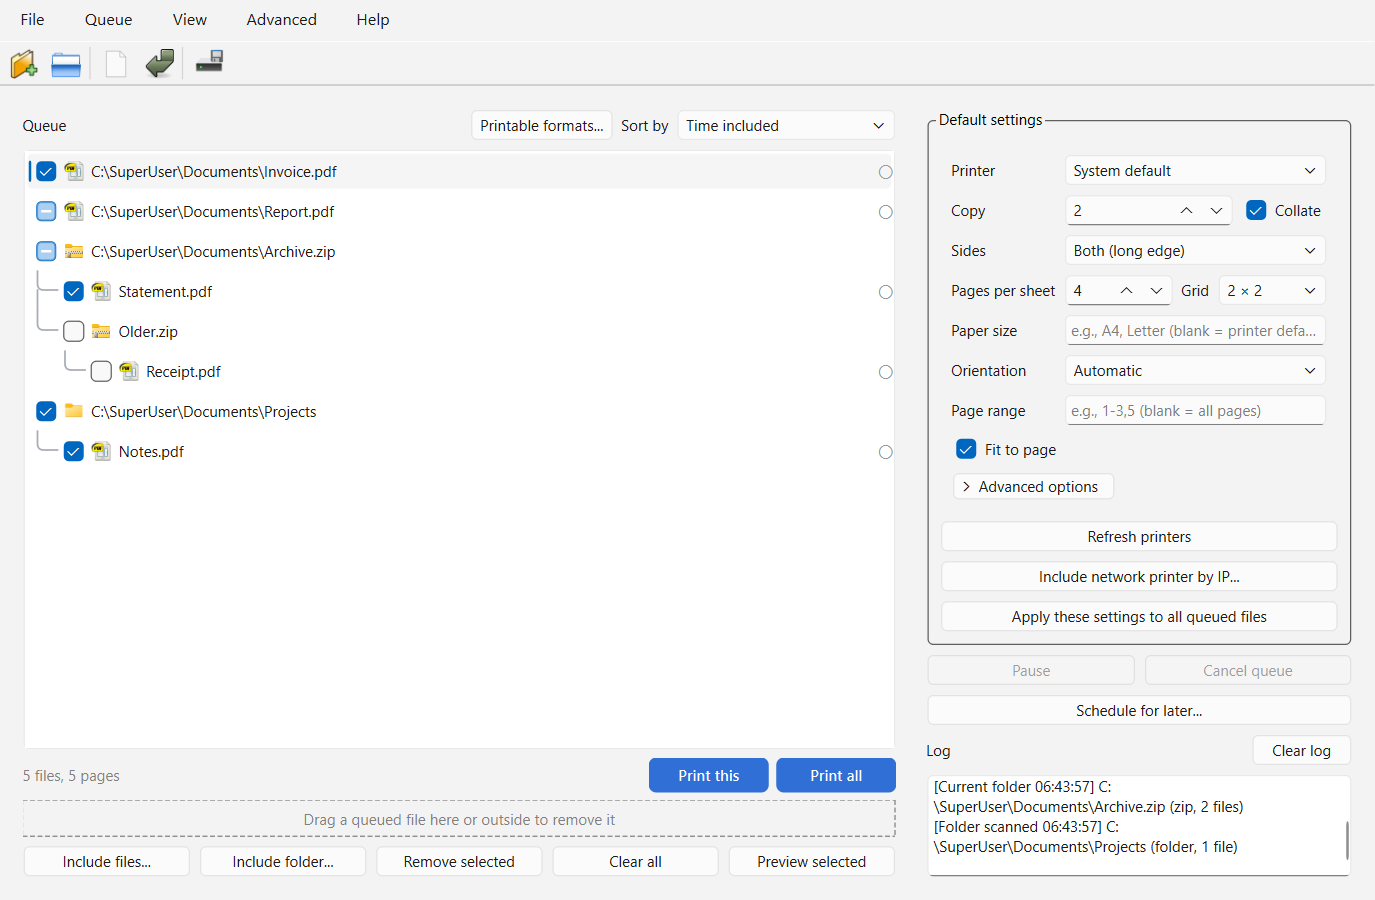
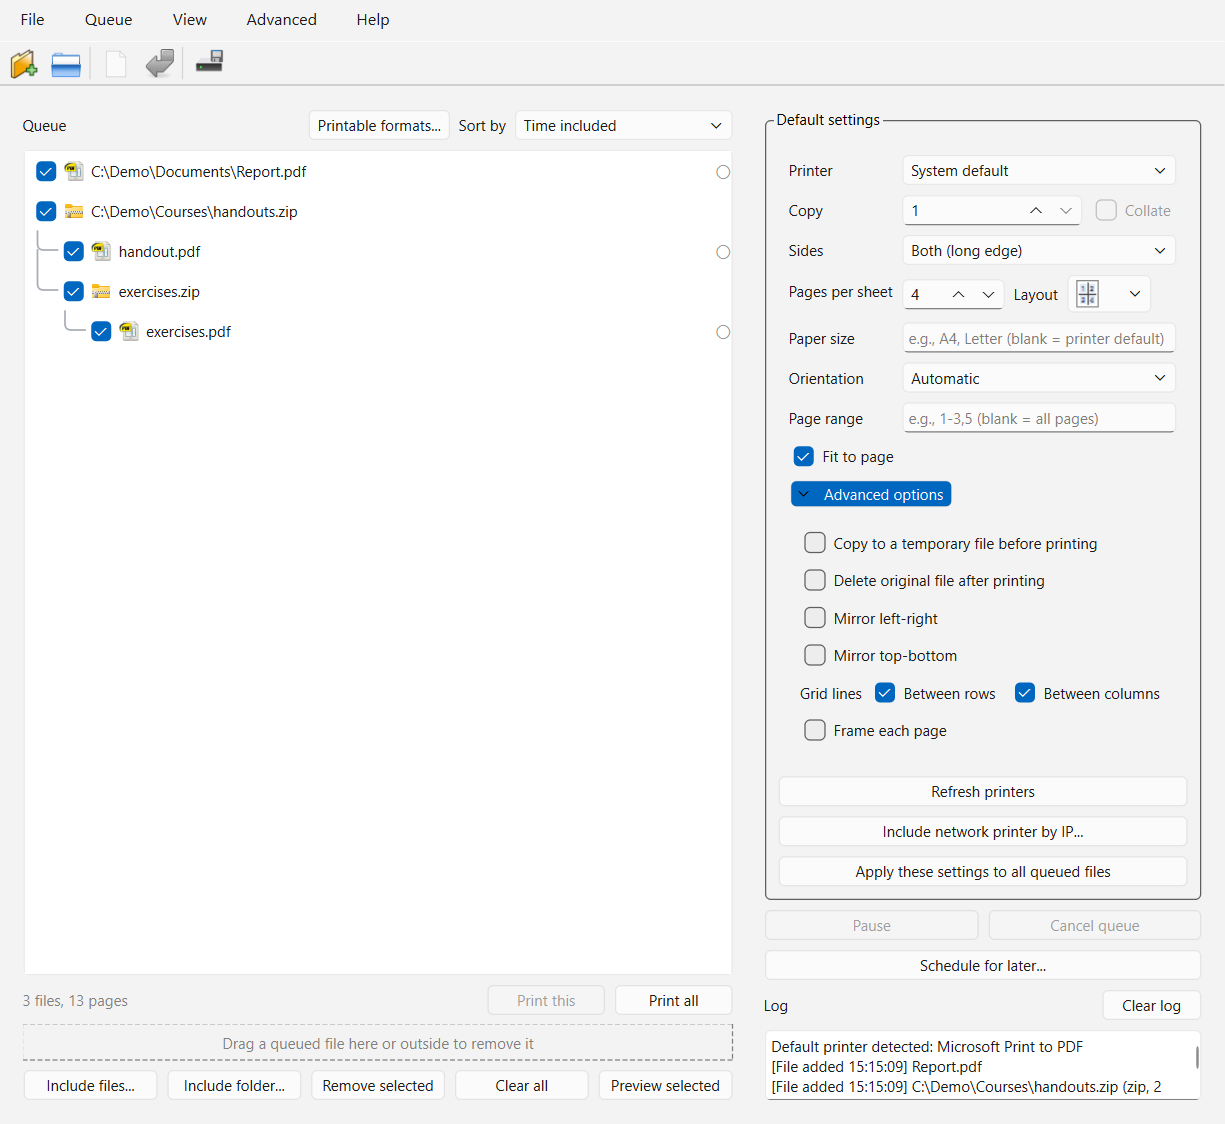
Grid lines

diff --git a/printtool/gui/widgets.py b/printtool/gui/widgets.py
@@ -54,7 +54,7 @@ class SettingsWidget(QWidget):
         self.grid_combo.setEnabled(False)
         self.lines_rows = QCheckBox("Between rows")
         self.lines_cols = QCheckBox("Between columns")
-        self.lines_frame = QCheckBox("Around each page")
+        self.lines_frame = QCheckBox("Frame each page")
         for box in (self.lines_rows, self.lines_cols, self.lines_frame):
             box.setEnabled(False)
             box.toggled.connect(lambda _on: self._sync_grids(self.nup_spin.value(), keep=True))
@@ -108,6 +108,16 @@ class SettingsWidget(QWidget):
         advanced_layout.addRow(self.delete_after_print_check)
         advanced_layout.addRow(self.mirror_lr_check)
         advanced_layout.addRow(self.mirror_tb_check)
+        # Only for several pages per sheet.
+        self._grid_lines = QWidget()
+        lines_row = QHBoxLayout(self._grid_lines)
+        lines_row.setContentsMargins(0, 0, 0, 0)
+        lines_row.addWidget(QLabel("Grid lines"))
+        lines_row.addWidget(self.lines_rows)
+        lines_row.addWidget(self.lines_cols)
+        lines_row.addStretch()
+        advanced_layout.addRow(self._grid_lines)
+        advanced_layout.addRow(self.lines_frame)
         advanced_box.setVisible(False)
 
         def _toggle_advanced(checked: bool) -> None:
@@ -130,11 +140,7 @@ class SettingsWidget(QWidget):
         nup_row.addWidget(self.grid_combo)
         nup_row.addStretch()
         layout.addRow("Pages per sheet", nup_row)
-        lines_row = QHBoxLayout()
-        for box in (self.lines_rows, self.lines_cols, self.lines_frame):
-            lines_row.addWidget(box)
-        lines_row.addStretch()
-        layout.addRow("Lines", lines_row)
+
         layout.addRow("Paper size", self.paper_edit)
         layout.addRow("Orientation", self.orientation_combo)
         layout.addRow("Page range", self.pages_edit)
@@ -142,6 +148,7 @@ class SettingsWidget(QWidget):
         layout.addRow(advanced_toggle)
         layout.addRow(advanced_box)
 
+        self._sync_grids(self.nup_spin.value())
         self.load_settings(default_print_settings())
 
     def _lines(self) -> tuple[str, ...]:
@@ -198,6 +205,11 @@ class SettingsWidget(QWidget):
         self.grid_combo.setEnabled(many)
         for box in (self.lines_rows, self.lines_cols, self.lines_frame):
             box.setEnabled(many)
+            if not many:
+                box.setChecked(False)
+        if hasattr(self, "_grid_lines"):
+            self._grid_lines.setVisible(many)
+            self.lines_frame.setVisible(many)
 
     def _sync_collate(self, copies: int) -> None:
         many = copies > 1

diff --git a/README.md b/README.md
@@ -6,7 +6,7 @@ Prints PDFs straight to paper, one file or a whole batch, without opening a view
 
 ## Features
 
-- One set of settings (printer, copy count, sides, pages per sheet with a drawn preview of each layout and optional lines between or around pages, paper size, page range, fit to page) applies to a whole batch; any queued file can override it. Both sides (long edge) is the default.
+- One set of settings (printer, copy count, sides, pages per sheet with a drawn layout, paper size, page range, fit to page) applies to a whole batch; any queued file can override it. Both sides (long edge) is the default.
 - Files, folders and zips (nested zips included) can be included by button or by drag and drop; zip members are extracted only when printed.
 - A folder or zip row has its own checkbox; light blue marks a group printed only in part, or a file with a page range.
 - "Print this" and "Print all" sit under the queue, with a progress bar showing the file printing now and its pages.
@@ -30,8 +30,6 @@ python scripts/fetch_sumatra.py   # Windows only, once
 Defaults live in a hand-editable `settings.yaml` (`printtool settings-path` prints its location). The "Printable formats..." button above the queue chooses which formats count as printable; only PDF is on by default.
 
 ![Printable formats window](docs/printtool-file-types.png)
-
-![Pages per sheet: Layout previews and lines](docs/printtool-layout.png)
 
 ## Usage
 

diff --git a/CHANGELOG.md b/CHANGELOG.md
@@ -3,7 +3,7 @@
 ## Version 6
 - "Print this" and "Print all" under the queue, beside the counts; one "Print all".
 - "Include" instead of "Add"; "Copy" with Collate beside it (active above one copy); "Sides" One, Both (long edge, the default) or Both (short edge).
-- Pages per sheet (1 -- 10) with every layout that fits (4 as 2 × 2, 1 × 4 or 4 × 1; 7 as 2 × 4), each shown as a small drawing of the sheet; optional lines between rows, between columns or around each page; the date stamp shrinks with its page.
+- Pages per sheet (1 -- 10), each layout drawn; grid lines and page frames under Advanced options.
 - "Time included" sort and its reverse; singular "file"/"page" for 0 and 1; "e.g.,".
 - Grey tree lines with rounded corners for folders and zips.
 
